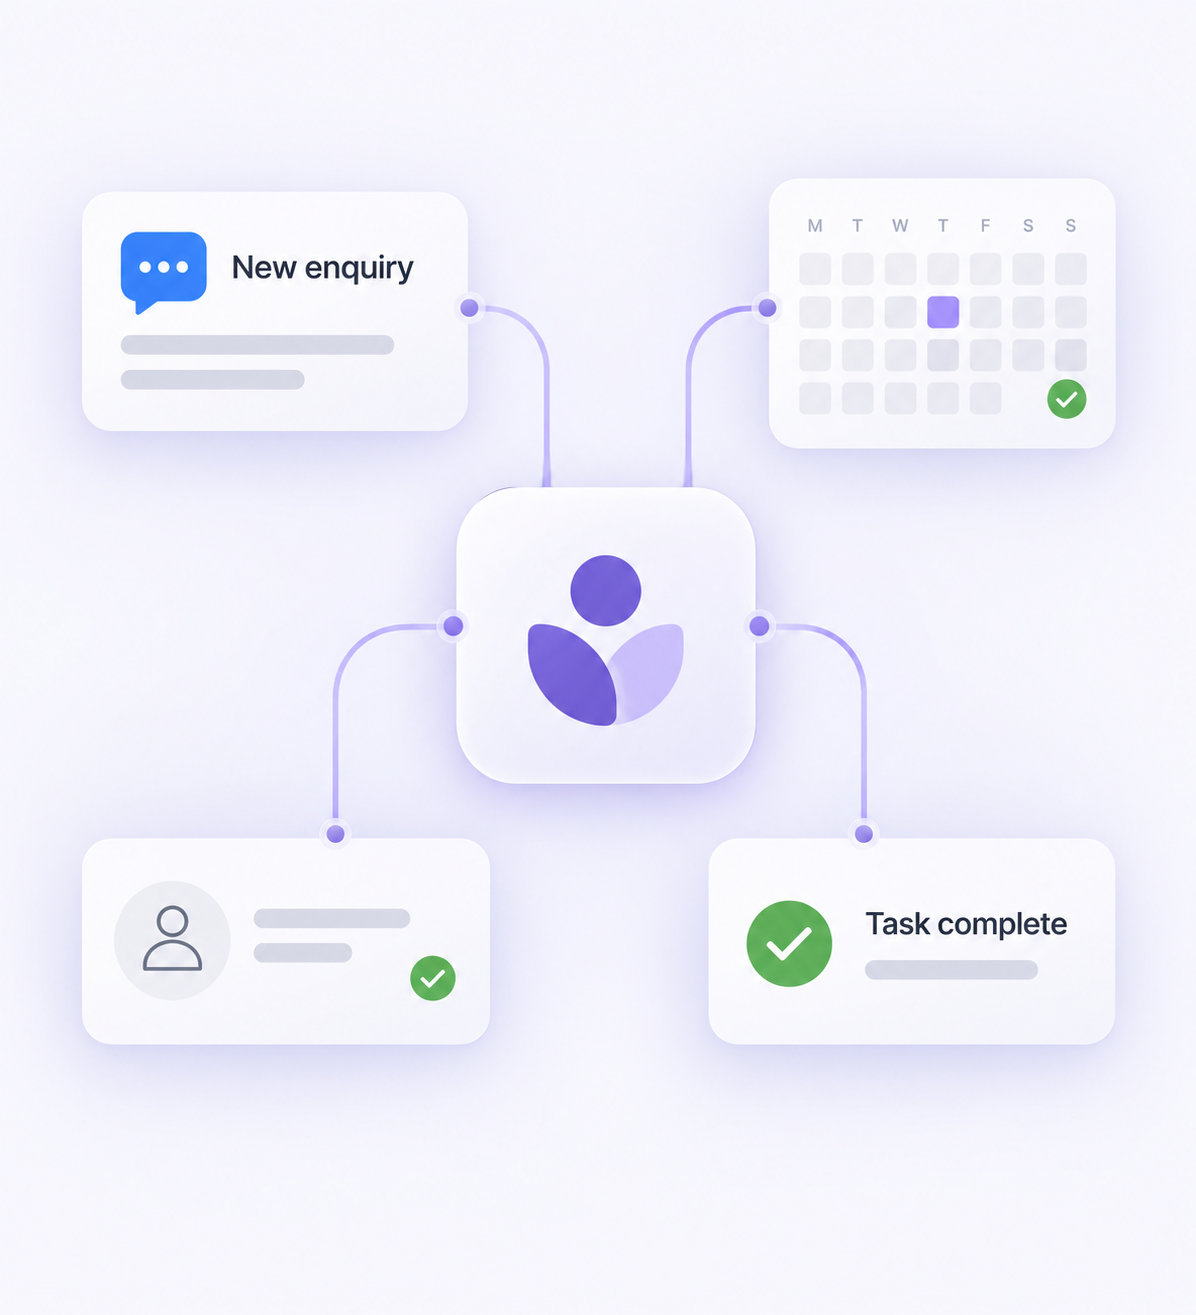
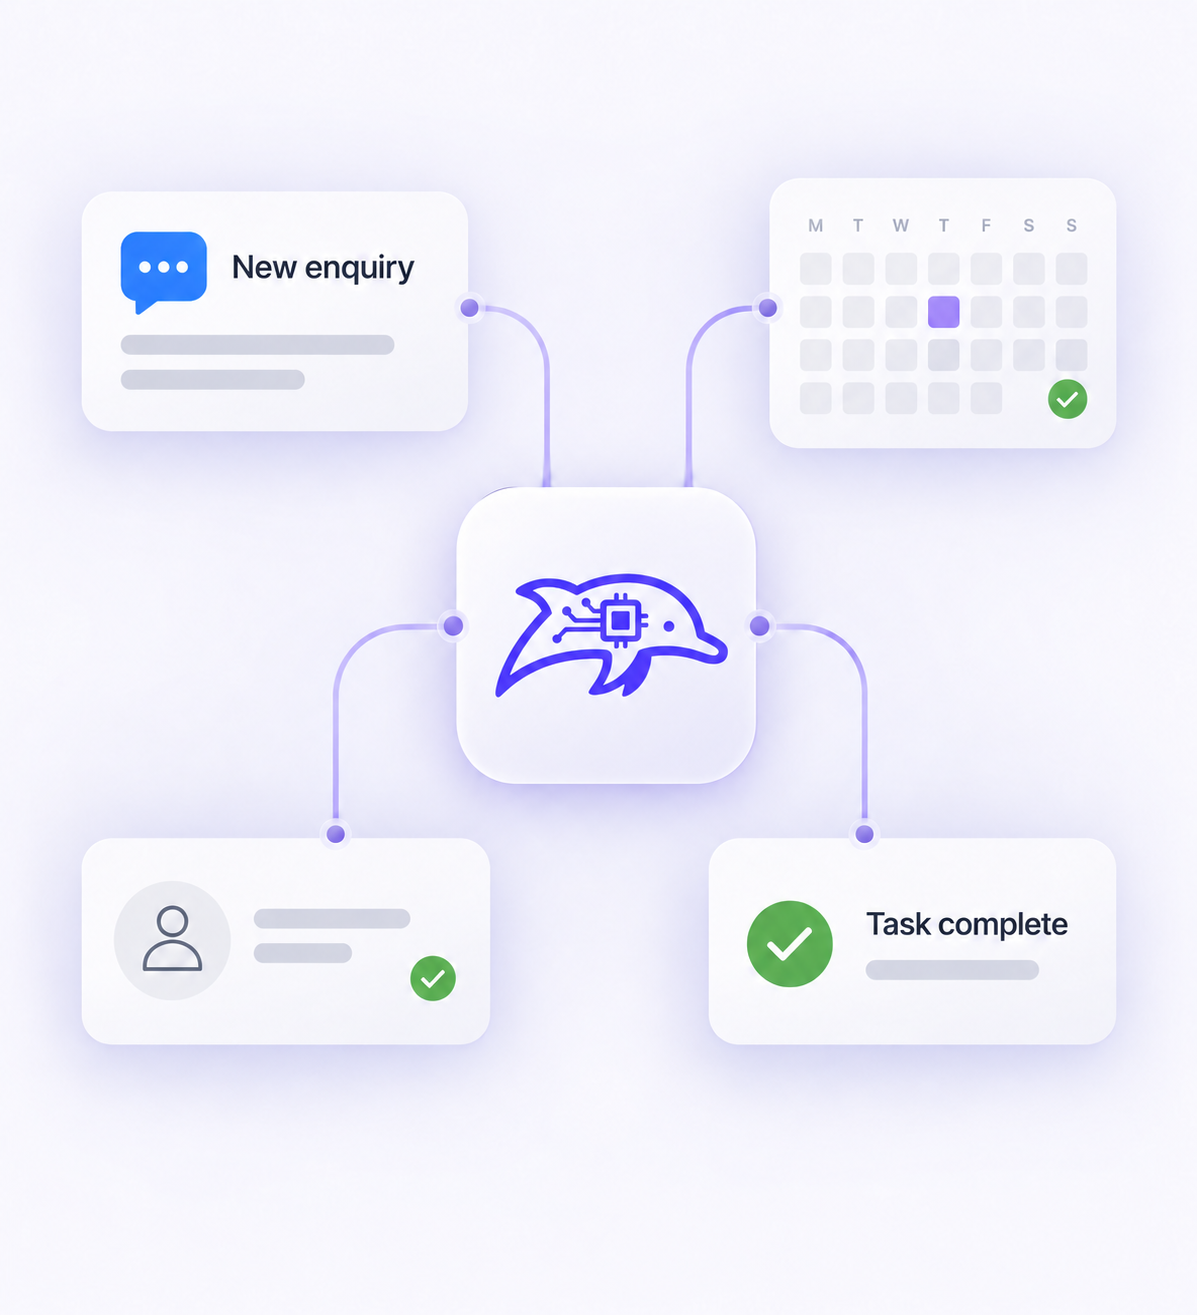
Play the workflow demo on a gradient card and switch key sections to white.

diff --git a/src/components/sections/WorkflowDemo.tsx b/src/components/sections/WorkflowDemo.tsx
@@ -1,6 +1,6 @@
 "use client";
 
-import { useEffect, useId, useRef, useState, type KeyboardEvent } from "react";
+import { useCallback, useEffect, useId, useRef, useState, type KeyboardEvent } from "react";
 import { AnimatePresence, motion, useReducedMotion } from "framer-motion";
 import { Check, Heart, Truck, UserSearch, UtensilsCrossed } from "lucide-react";
 import type { LucideIcon } from "lucide-react";
@@ -13,25 +13,47 @@ const ICONS: Record<WorkflowDemoItem["icon"], LucideIcon> = {
   utensils: UtensilsCrossed,
 };
 
+const MESSAGE_START_MS = 420;
+const MESSAGE_STEP_MS = 880;
+const HOLD_MS = 2800;
+const EASE = [0.22, 1, 0.36, 1] as const;
+
+function actionUnlockCount(item: WorkflowDemoItem, visible: number) {
+  const actionMessages = item.messages.filter((message) => message.action);
+  if (visible <= 0 || actionMessages.length === 0) return 0;
+  const seen = item.messages.slice(0, visible).filter((message) => message.action).length;
+  return Math.round((seen / actionMessages.length) * item.actions.length);
+}
+
 export function WorkflowDemo() {
   const reduceMotion = useReducedMotion();
   const [activeId, setActiveId] = useState(workflowDemos[0].id);
   const [userStopped, setUserStopped] = useState(false);
   const [paused, setPaused] = useState(false);
+  const [playbackDone, setPlaybackDone] = useState(false);
   const tabIds = useId();
   const sectionRef = useRef<HTMLElement | null>(null);
   const active = workflowDemos.find((item) => item.id === activeId) ?? workflowDemos[0];
+  const instant = Boolean(reduceMotion);
 
   useEffect(() => {
-    if (reduceMotion || userStopped || paused) return undefined;
-    const timer = window.setInterval(() => {
+    setPlaybackDone(false);
+  }, [activeId]);
+
+  useEffect(() => {
+    if (instant || userStopped || paused || !playbackDone) return undefined;
+    const timer = window.setTimeout(() => {
       setActiveId((current) => {
         const index = workflowDemos.findIndex((item) => item.id === current);
         return workflowDemos[(index + 1) % workflowDemos.length].id;
       });
-    }, 6000);
-    return () => window.clearInterval(timer);
-  }, [paused, reduceMotion, userStopped]);
+    }, HOLD_MS);
+    return () => window.clearTimeout(timer);
+  }, [instant, paused, playbackDone, userStopped]);
+
+  const markPlaybackDone = useCallback(() => {
+    setPlaybackDone(true);
+  }, []);
 
   function selectTab(id: string, fromUser: boolean) {
     setActiveId(id);
@@ -112,19 +134,28 @@ export function WorkflowDemo() {
 
         <div className="overflow-visible px-4">
           <div className="workflow-demo-card">
+            <p className="workflow-live-pill">
+              <span className="workflow-live-dot size-1.5 rounded-full bg-emerald-500" aria-hidden="true" />
+              {active.badge}
+            </p>
             <AnimatePresence mode="wait" initial={false}>
               <motion.div
                 key={active.id}
                 id={`${tabIds}-panel-${active.id}`}
                 role="tabpanel"
                 aria-labelledby={`${tabIds}-${active.id}`}
-                initial={reduceMotion ? false : { opacity: 0, y: 8 }}
+                initial={instant ? false : { opacity: 0, y: 8 }}
                 animate={{ opacity: 1, y: 0 }}
-                exit={reduceMotion ? undefined : { opacity: 0, y: -8 }}
+                exit={instant ? undefined : { opacity: 0, y: -8 }}
                 transition={{ duration: 0.2 }}
                 className="h-full"
               >
-                <DemoPanel item={active} />
+                <DemoPanel
+                  item={active}
+                  instant={instant}
+                  paused={paused}
+                  onComplete={markPlaybackDone}
+                />
               </motion.div>
             </AnimatePresence>
           </div>
@@ -134,16 +165,50 @@ export function WorkflowDemo() {
   );
 }
 
-function DemoPanel({ item }: { item: WorkflowDemoItem }) {
+function DemoPanel({
+  item,
+  instant,
+  paused,
+  onComplete,
+}: {
+  item: WorkflowDemoItem;
+  instant: boolean;
+  paused: boolean;
+  onComplete: () => void;
+}) {
+  const chatRef = useRef<HTMLDivElement | null>(null);
+  const [visible, setVisible] = useState(instant ? item.messages.length : 0);
+  const unlocked = instant ? item.actions.length : actionUnlockCount(item, visible);
+  const complete = visible >= item.messages.length;
+
+  useEffect(() => {
+    setVisible(instant ? item.messages.length : 0);
+  }, [item.id, instant, item.messages.length]);
+
+  useEffect(() => {
+    if (instant || paused || visible >= item.messages.length) return undefined;
+    const timer = window.setTimeout(
+      () => setVisible((count) => count + 1),
+      visible === 0 ? MESSAGE_START_MS : MESSAGE_STEP_MS,
+    );
+    return () => window.clearTimeout(timer);
+  }, [instant, item.id, item.messages.length, paused, visible]);
+
+  useEffect(() => {
+    if (complete) onComplete();
+  }, [complete, onComplete]);
+
+  useEffect(() => {
+    const node = chatRef.current;
+    if (!node) return;
+    node.scrollTo({ top: node.scrollHeight, behavior: instant ? "auto" : "smooth" });
+  }, [instant, visible]);
+
   return (
     <div className="workflow-demo-panel">
-      <div className="workflow-chat h-full overflow-y-auto p-5 sm:p-7">
-        <p className="mb-6 inline-flex items-center gap-1.5 rounded-full bg-white/10 px-2.5 py-1 text-[10.5px] font-medium text-white/90">
-          <span className="size-1.5 rounded-full bg-emerald-400" aria-hidden="true" />
-          {item.badge}
-        </p>
-        <div className="flex flex-col">
-          {item.messages.map((message, index) => {
+      <div ref={chatRef} className="workflow-chat h-full overflow-y-auto p-5 pt-14 sm:p-7 sm:pt-16">
+        <div className="flex flex-col" aria-live="polite" aria-relevant="additions">
+          {item.messages.slice(0, visible).map((message, index) => {
             const incoming = message.speaker === "user";
             const stacked = item.messages[index - 1]?.speaker === message.speaker;
             return (
@@ -151,37 +216,62 @@ function DemoPanel({ item }: { item: WorkflowDemoItem }) {
                 key={`${item.id}-${index}`}
                 className={`flex ${incoming ? "justify-start" : "justify-end"} ${stacked ? "mt-1.5" : "mt-3"}`}
               >
-                <div className={`relative max-w-[78%] px-4 py-3 text-[14px] leading-relaxed ${incoming ? "workflow-chat-in" : "workflow-chat-out"}`}>
+                <motion.div
+                  className={`relative max-w-[78%] px-4 py-3 text-[14px] leading-relaxed ${incoming ? "workflow-chat-in" : "workflow-chat-out"}`}
+                  style={{ transformOrigin: incoming ? "left bottom" : "right bottom" }}
+                  initial={instant ? false : { opacity: 0, y: 16, scale: 0.68 }}
+                  animate={{ opacity: 1, y: 0, scale: 1 }}
+                  transition={{ type: "spring", stiffness: 640, damping: 18, mass: 0.5 }}
+                >
                   {message.text}
                   {message.action ? (
                     <span className={`mt-1.5 block text-[11px] ${incoming ? "text-white/70" : "text-ink-muted"}`}>
                       → {message.action}
                     </span>
                   ) : null}
-                </div>
+                </motion.div>
               </div>
             );
           })}
         </div>
       </div>
-      <div className="space-y-3 overflow-y-auto bg-surface p-6">
+      <motion.div
+        className="workflow-outcome space-y-3"
+        initial={instant ? false : { opacity: 0, x: -72 }}
+        animate={{ opacity: 1, x: 0 }}
+        transition={{ duration: 0.5, ease: EASE, delay: 0.12 }}
+      >
         <p className="font-sans text-[11px] font-semibold uppercase tracking-wider text-ink-muted">
           What the AI did
         </p>
         <ul className="space-y-2 text-[12.5px] text-ink">
-          {item.actions.map((action) => (
-            <li key={action} className="flex items-start gap-2">
-              <span className="mt-0.5 grid size-5 shrink-0 place-items-center rounded-full bg-emerald-100 text-emerald-700">
-                <Check className="h-2.5 w-2.5" strokeWidth={3} aria-hidden="true" />
-              </span>
-              <span>{action}</span>
-            </li>
-          ))}
+          {item.actions.map((action, index) => {
+            const revealed = index < unlocked;
+            return (
+              <li
+                key={action}
+                className={`flex items-start gap-2 transition-opacity duration-300 ${revealed ? "opacity-100" : "opacity-35"}`}
+              >
+                <span
+                  className={`mt-0.5 grid size-5 shrink-0 place-items-center rounded-full transition-colors duration-300 ${
+                    revealed ? "bg-emerald-100 text-emerald-700" : "bg-line text-transparent"
+                  }`}
+                >
+                  <Check className="h-2.5 w-2.5" strokeWidth={3} aria-hidden="true" />
+                </span>
+                <span>{action}</span>
+              </li>
+            );
+          })}
         </ul>
-        <p className="mt-2 rounded-lg bg-background-alt p-3 text-[11.5px] text-ink-muted">
+        <p
+          className={`mt-2 rounded-lg bg-background-alt p-3 text-[11.5px] text-ink-muted transition-opacity duration-300 ${
+            complete ? "opacity-100" : "opacity-40"
+          }`}
+        >
           {item.result}
         </p>
-      </div>
+      </motion.div>
     </div>
   );
 }

diff --git a/src/app/globals.css b/src/app/globals.css
@@ -941,7 +941,7 @@
     left: 0;
     right: 0;
     z-index: 1;
-    background: var(--pp-background);
+    background: var(--pp-surface);
   }
 
   .workflow-step:first-child .workflow-step-rail::before {
@@ -1633,39 +1633,71 @@
 }
 
 .workflow-demo-card {
+  position: relative;
   display: grid;
+  height: 32rem;
   overflow: hidden;
-  min-height: 28rem;
   border-radius: var(--pp-radius-card);
-  background: var(--pp-surface);
+  background-image: linear-gradient(90deg, var(--pp-primary) 0%, var(--pp-accent) 100%);
   box-shadow:
     0 2px 4px rgba(0, 0, 0, 0.04),
     0 8px 20px rgba(0, 0, 0, 0.08),
     0 18px 40px rgba(0, 0, 0, 0.1);
 }
 
-.workflow-demo-card > * {
+.workflow-demo-card > .workflow-live-pill {
+  display: inline-flex;
+  height: auto;
+  min-height: 0;
+}
+
+.workflow-demo-card > *:not(.workflow-live-pill) {
   display: grid;
-  min-height: 28rem;
+  min-height: 0;
   height: 100%;
 }
 
 .workflow-demo-panel {
+  position: relative;
   display: grid;
-  min-height: 100%;
+  min-height: 0;
   height: 100%;
+  gap: 0.75rem;
+  padding: 0.75rem;
+  grid-template-rows: minmax(0, 1fr) auto;
 }
 
 @media (min-width: 1024px) {
   .workflow-demo-panel {
-    grid-template-columns: minmax(0, 1fr) 300px;
+    grid-template-rows: minmax(0, 1fr);
+    grid-template-columns: 3fr 1fr;
+    padding: 0.75rem 0.75rem 0.75rem 0;
+    align-items: stretch;
   }
 }
 
 .workflow-chat {
+  min-height: 0;
   height: 100%;
-  min-height: 100%;
-  background-color: color-mix(in srgb, var(--pp-primary) 55%, var(--pp-primary-soft));
+  overflow-y: auto;
+  background: transparent;
+}
+
+.workflow-outcome {
+  min-width: 0;
+  min-height: 0;
+  max-height: 42%;
+  padding: 1.25rem;
+  overflow-y: auto;
+  border-radius: var(--pp-radius-card);
+  background: var(--pp-surface);
+}
+
+@media (min-width: 1024px) {
+  .workflow-outcome {
+    max-height: none;
+    height: 100%;
+  }
 }
 
 .workflow-chat-in,
@@ -1683,6 +1715,43 @@
   background: #ffffff;
   color: var(--pp-text);
   border-radius: 22px;
+}
+
+.workflow-live-pill {
+  position: absolute;
+  top: 0;
+  left: 0;
+  z-index: 2;
+  display: inline-flex;
+  align-items: center;
+  gap: 0.375rem;
+  width: auto;
+  height: auto;
+  margin: 0;
+  padding: 0.55rem 1rem 0.55rem 0.85rem;
+  border: 0;
+  border-radius: 0 0 1.35rem 0;
+  background: var(--pp-surface);
+  color: var(--pp-text);
+  font-size: 10.5px;
+  font-weight: 500;
+  line-height: 1.4;
+}
+
+.workflow-live-dot {
+  animation: workflowLivePulse 1.6s ease-in-out infinite;
+}
+
+@keyframes workflowLivePulse {
+  0%,
+  100% {
+    opacity: 1;
+    transform: scale(1);
+  }
+  50% {
+    opacity: 0.4;
+    transform: scale(0.82);
+  }
 }
 
 .testimonial-stack-card {

diff --git a/src/components/sections/AgentWorkflow.tsx b/src/components/sections/AgentWorkflow.tsx
@@ -3,7 +3,7 @@ import { agentWorkflow } from "@/lib/home-content";
 
 export function AgentWorkflow() {
   return (
-    <section id="agentic-vs-chatbot" className="section-pad border-b border-line bg-background">
+    <section id="agentic-vs-chatbot" className="section-pad border-b border-line bg-surface">
       <div className="container-edge">
         <div className="max-w-[720px]">
           <p className="eyebrow">{agentWorkflow.eyebrow}</p>

diff --git a/src/components/sections/EcosystemSection.tsx b/src/components/sections/EcosystemSection.tsx
@@ -61,7 +61,7 @@ export function EcosystemSection() {
       id="partnerships"
       ref={sectionRef}
       aria-labelledby={headingId}
-      className="section-pad border-b border-line bg-background"
+      className="section-pad border-b border-line bg-surface"
     >
       <div className="container-edge">
         <motion.div
